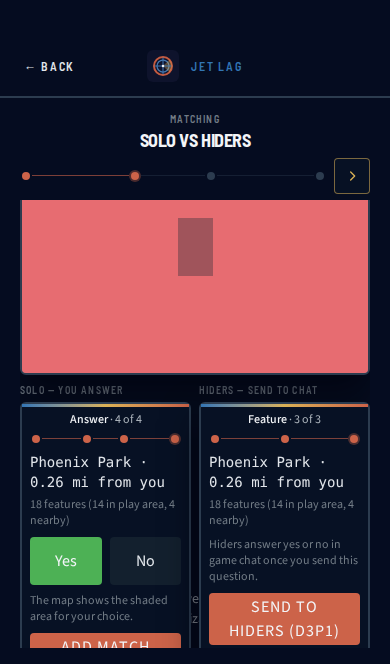
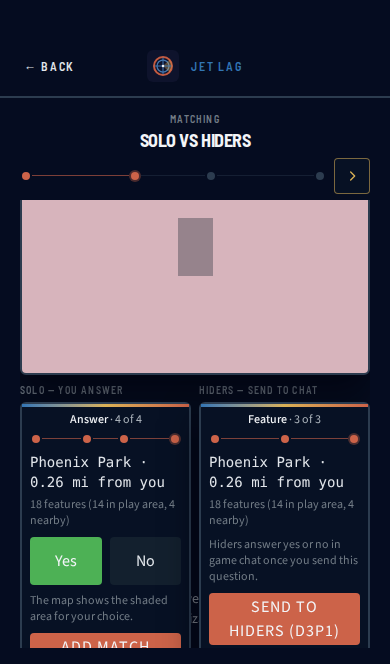
test(e2e): add visual update script and widen PR smoke gate

Changed region(s): [[0.0308, 0.3012, 0.9538, 0.5723]]

diff --git a/e2e/visual/tool-dock.spec.ts b/e2e/visual/tool-dock.spec.ts
@@ -5,11 +5,13 @@ test.describe("mobile tool dock screenshots", () => {
     await openMapWithLocalSession(page);
   });
 
-  test("matches compact dock screenshots", async ({ page }) => {
+  test("@smoke matches compact closed dock", async ({ page }) => {
     await expect(page.locator(".jl-tool-dock-bar")).toHaveScreenshot(
       "tool-dock-compact-closed.png",
     );
+  });
 
+  test("matches overflow sheet open", async ({ page }) => {
     await page.getByRole("button", { name: "More tools" }).click();
     await expect(page.getByRole("dialog", { name: "More tools" })).toHaveScreenshot(
       "tool-overflow-sheet-open.png",

diff --git a/e2e/visual/create.spec.ts b/e2e/visual/create.spec.ts
@@ -6,7 +6,7 @@ import {
 } from "../fixtures";
 
 test.describe("create session screenshots", () => {
-  test("matches play area HUD after place search", async ({ page }) => {
+  test("@smoke matches play area HUD after place search", async ({ page }) => {
     await prepareE2EPage(page);
     await page.goto("/create");
     await page.getByPlaceholder("Dublin, Ireland").fill("Dublin");

diff --git a/e2e/visual/map-first-run.spec.ts b/e2e/visual/map-first-run.spec.ts
@@ -6,7 +6,7 @@ import {
 } from "../fixtures";
 
 test.describe("map first-run screenshots", () => {
-  test("matches onboarding sheet baseline", async ({ page }) => {
+  test("@smoke matches onboarding sheet baseline", async ({ page }) => {
     await page.addInitScript(() => {
       localStorage.removeItem("jetlag.mapFirstRunDismissed");
     });